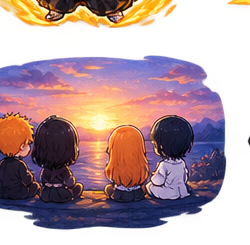
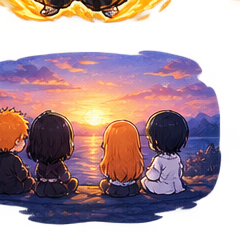
🐛 Botones separados + empty state fix + ocultar Next.js DevTools
- Barra inferior: botones SEPARADOS (cada uno su propia cápsula circular flotante), no agrupados
- Empty state: fix hydration race condition (hydratedRef evita que persist sobreescriba localStorage antes de hydrate)
- Empty state imagen: object-contain + max-h-full para que no se corte
- equipo-vacio.png: re-crop con padding extra para evitar cabezas cortadas
- CSS global: ocultar Next.js DevTools button/indicator
- Verificado: empty state muestra imagen completa, botones separados, sin errores

diff --git a/src/components/TaskBoard.jsx b/src/components/TaskBoard.jsx
@@ -804,8 +804,12 @@ export default function TaskBoard({ name = "Bea", tasks = MOCK_TASKS }) {
   const [draftPriority, setDraftPriority] = useState(2);
   const [draftRecurrence, setDraftRecurrence] = useState("none");
 
-  // persist (allowed external-sync effect)
+  // hydrate flag — evita que el persist effect sobreescriba localStorage antes de hidratar
+  const hydratedRef = useRef(false);
+
+  // persist (allowed external-sync effect) — solo después de hidratar
   useEffect(() => {
+    if (!hydratedRef.current) return;
     try {
       window.localStorage.setItem(
         STORAGE_KEY,
@@ -830,6 +834,7 @@ export default function TaskBoard({ name = "Bea", tasks = MOCK_TASKS }) {
     }
     setNow(new Date());
     const id = window.setInterval(() => setNow(new Date()), 60000);
+    hydratedRef.current = true;
     return () => window.clearInterval(id);
   }, []);
   /* eslint-enable react-hooks/set-state-in-effect */
@@ -1629,13 +1634,12 @@ export default function TaskBoard({ name = "Bea", tasks = MOCK_TASKS }) {
           {visibleTasks.length === 0 && (
             <div className="flex flex-col items-center justify-center py-12 text-center">
               {!searchQuery && (
-                <div className="tb-char-float mb-3" style={{ width: "200px", maxWidth: "70vw" }}>
-                  { }
+                <div className="tb-char-float mb-3 flex items-center justify-center" style={{ width: "180px", maxWidth: "65vw", height: "180px", maxHeight: "50vh" }}>
                   <img
                     src={GROUP_EMPTY_IMAGE}
                     alt="Equipo descansando"
-                    className="h-auto w-full"
-                    style={{ filter: "drop-shadow(0 6px 12px rgba(0,0,0,0.35))" }}
+                    className="h-auto max-h-full w-auto max-w-full"
+                    style={{ filter: "drop-shadow(0 6px 12px rgba(0,0,0,0.35))", objectFit: "contain" }}
                     draggable={false}
                   />
                 </div>
@@ -1735,17 +1739,15 @@ export default function TaskBoard({ name = "Bea", tasks = MOCK_TASKS }) {
         )}
       </div>
 
-      {/* Bottom floating bar — filtro+reloj a la izquierda, "+" a la derecha (como la imagen original) */}
-      <div className="fixed bottom-6 left-1/2 z-40 -translate-x-1/2 w-[358px] sm:w-[400px] lg:w-[440px]" style={{ maxWidth: "calc(100% - 32px)" }}>
-        <div className="flex items-center justify-between rounded-full px-3 py-2.5" style={{ background: "rgba(23,23,23,0.7)", backdropFilter: "blur(12px)", WebkitBackdropFilter: "blur(12px)", border: "1px solid rgba(255,255,255,0.1)" }}>
-          {/* Izquierda: filtro + reloj */}
-          <div className="flex items-center gap-1.5">
-            <button type="button" onClick={() => setFilterOpen(true)} aria-label="Filtrar tareas" className={`flex h-9 w-9 items-center justify-center rounded-full transition-colors ${filter !== "all" || searchQuery ? "bg-[#2563eb] text-white" : "text-white/80 hover:bg-white/10"}`}><Filter size={18} /></button>
-            <button type="button" onClick={jumpToNextUp} aria-label="Saltar a la siguiente tarea" className="flex h-9 w-9 items-center justify-center rounded-full text-white/80 transition-colors hover:bg-white/10"><Clock size={18} /></button>
-          </div>
-          {/* Derecha: botón "+" */}
-          <button type="button" onClick={openAdd} aria-label="Añadir tarea" className="tb-plus-pulse flex h-11 w-11 items-center justify-center rounded-full bg-white text-black transition-transform active:scale-95"><Plus size={22} strokeWidth={2.5} /></button>
+      {/* Bottom floating bar — botones SEPARADOS (no en cápsula) */}
+      <div className="fixed bottom-6 left-1/2 z-40 flex w-[358px] -translate-x-1/2 items-center justify-between px-1 sm:w-[400px] lg:w-[440px]" style={{ maxWidth: "calc(100% - 32px)" }}>
+        {/* Izquierda: filtro + reloj como botones individuales flotantes */}
+        <div className="flex items-center gap-2">
+          <button type="button" onClick={() => setFilterOpen(true)} aria-label="Filtrar tareas" className={`flex h-11 w-11 items-center justify-center rounded-full backdrop-blur-md transition-colors ${filter !== "all" || searchQuery ? "bg-[#2563eb] text-white" : "bg-neutral-900/70 text-white/80 hover:bg-white/10"}`} style={{ border: "1px solid rgba(255,255,255,0.1)" }}><Filter size={18} /></button>
+          <button type="button" onClick={jumpToNextUp} aria-label="Saltar a la siguiente tarea" className="flex h-11 w-11 items-center justify-center rounded-full bg-neutral-900/70 text-white/80 backdrop-blur-md transition-colors hover:bg-white/10" style={{ border: "1px solid rgba(255,255,255,0.1)" }}><Clock size={18} /></button>
         </div>
+        {/* Derecha: botón "+" individual flotante */}
+        <button type="button" onClick={openAdd} aria-label="Añadir tarea" className="tb-plus-pulse flex h-12 w-12 items-center justify-center rounded-full bg-white text-black transition-transform active:scale-95" style={{ boxShadow: "0 4px 12px rgba(0,0,0,0.4)" }}><Plus size={24} strokeWidth={2.5} /></button>
       </div>
 
       {/* Add / Edit sheet */}

diff --git a/src/app/globals.css b/src/app/globals.css
@@ -120,3 +120,12 @@
     @apply bg-background text-foreground;
   }
 }
+
+/* Ocultar el indicador/botón de Next.js DevTools en desarrollo */
+nextjs-portal,
+[data-nextjs-toast-wrapper],
+[data-nextjs-dev-tools-button],
+.__next-build-indicator,
+button[aria-label="Open in Next.js"] {
+  display: none !important;
+}
